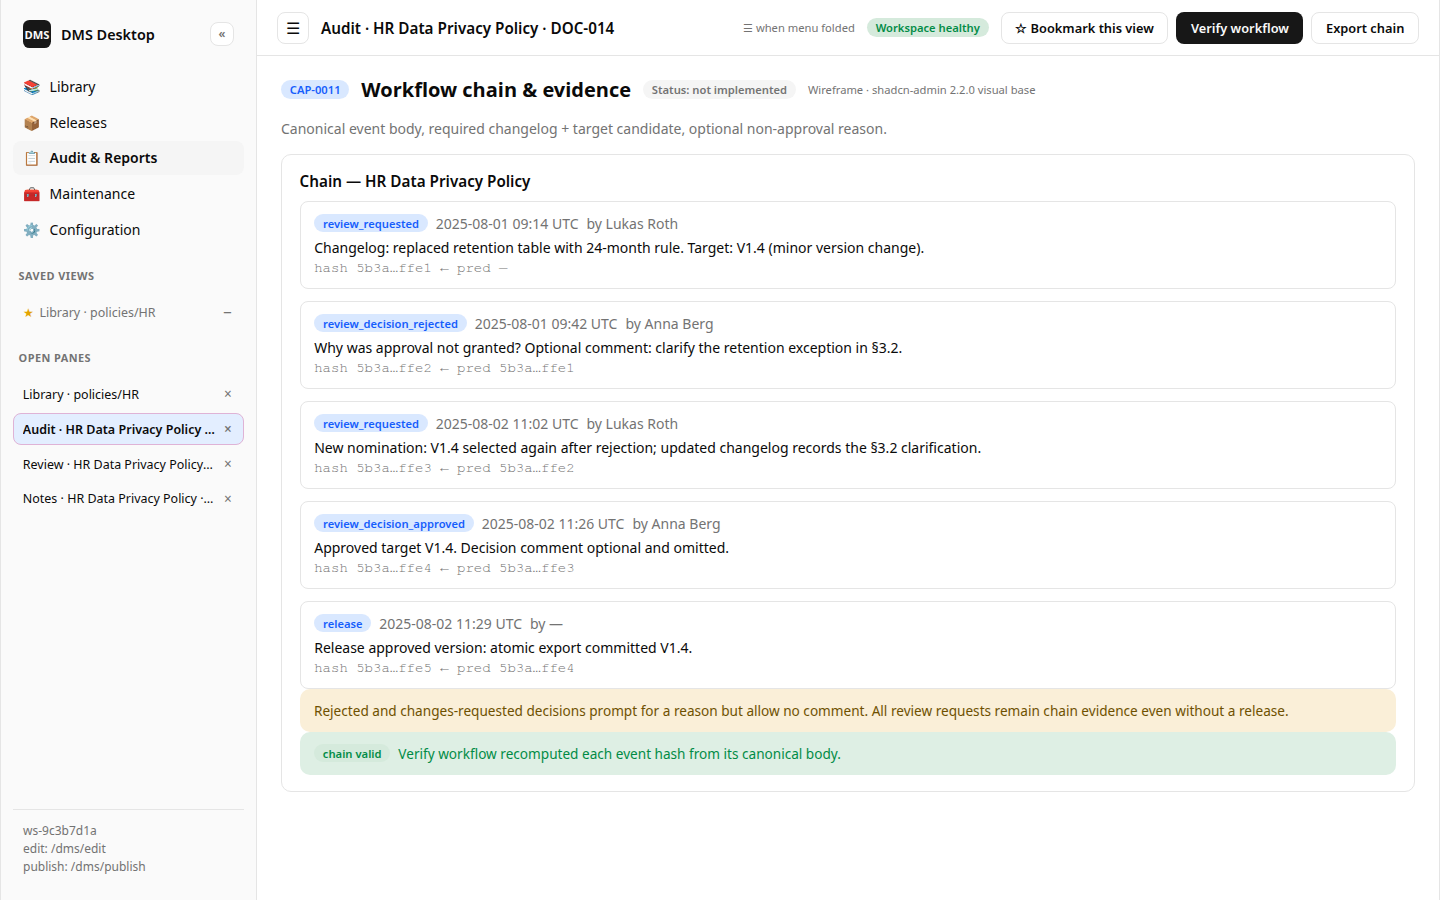
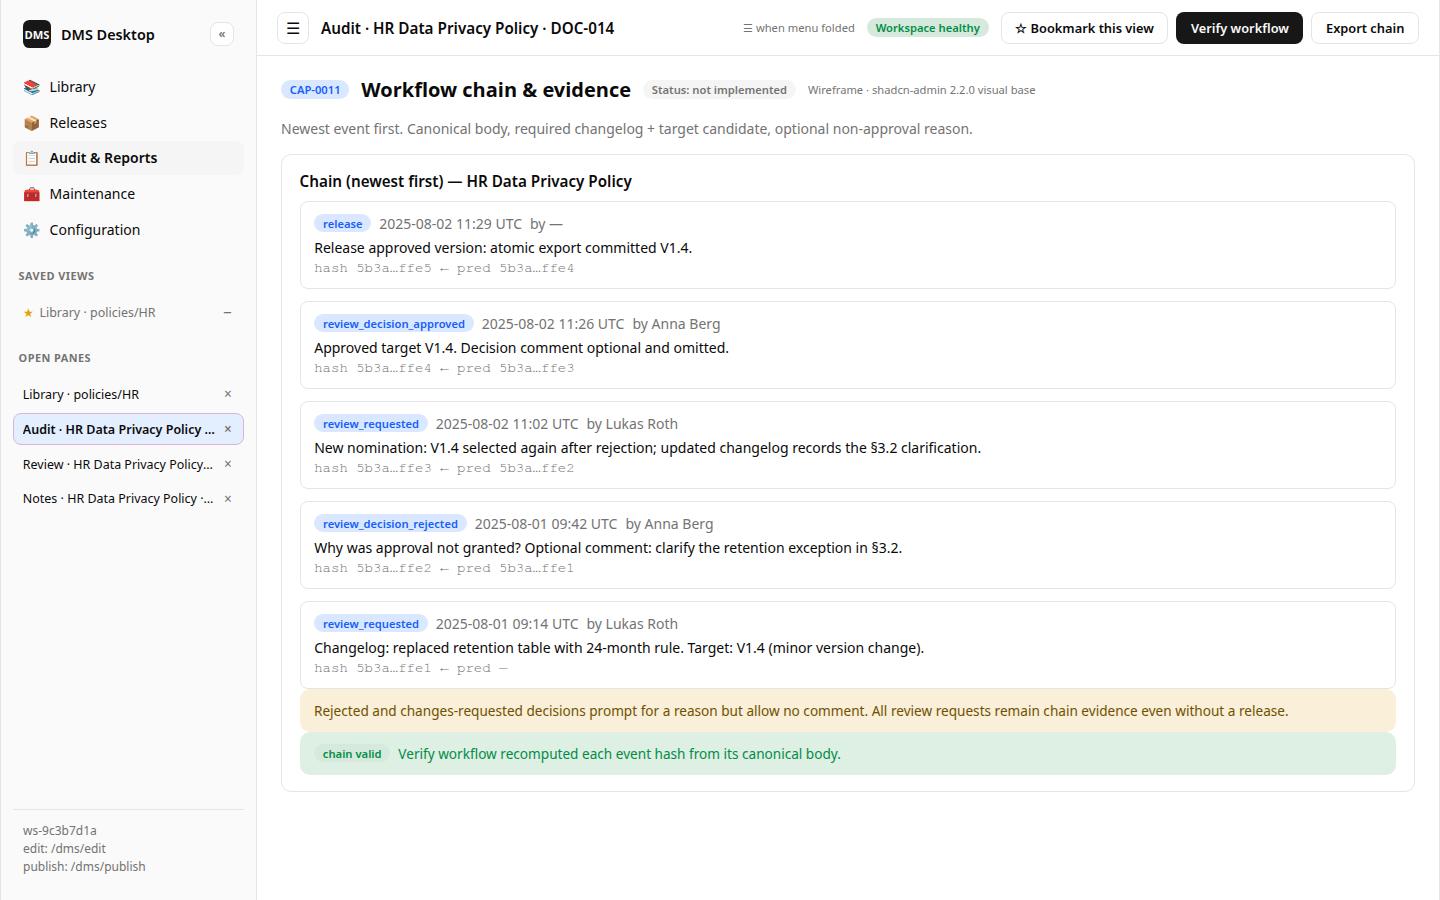
docs(approval): show workflow history newest first

diff --git a/docs/product/wireframes/html/CAP-0011-approval-evidence.html b/docs/product/wireframes/html/CAP-0011-approval-evidence.html
@@ -226,25 +226,15 @@ tr:last-child td { border-bottom: 0; }
         <span class="badge muted">Status: not implemented</span>
         <span class="wire-meta">Wireframe · shadcn-admin 2.2.0 visual base</span>
       </div>
-      <p class="subtitle">Canonical event body, required changelog + target candidate, optional non-approval reason.</p>
+      <p class="subtitle">Newest event first. Canonical body, required changelog + target candidate, optional non-approval reason.</p>
       
       <section class="card">
-        <h3 class="card-title">Chain — HR Data Privacy Policy</h3>
+        <h3 class="card-title">Chain (newest first) — HR Data Privacy Policy</h3>
         <div class="stack">
           <article class="event">
-    <div class="row gap-2"><span class="badge info">review_requested</span><span class="muted">2025-08-01 09:14 UTC</span><span class="muted">by Lukas Roth</span></div>
-    <p>Changelog: replaced retention table with 24-month rule. Target: V1.4 (minor version change).</p>
-    <p class="hint mono">hash 5b3a…ffe1 ← pred —</p>
-  </article>
-          <article class="event">
-    <div class="row gap-2"><span class="badge info">review_decision_rejected</span><span class="muted">2025-08-01 09:42 UTC</span><span class="muted">by Anna Berg</span></div>
-    <p>Why was approval not granted? Optional comment: clarify the retention exception in §3.2.</p>
-    <p class="hint mono">hash 5b3a…ffe2 ← pred 5b3a…ffe1</p>
-  </article>
-          <article class="event">
-    <div class="row gap-2"><span class="badge info">review_requested</span><span class="muted">2025-08-02 11:02 UTC</span><span class="muted">by Lukas Roth</span></div>
-    <p>New nomination: V1.4 selected again after rejection; updated changelog records the §3.2 clarification.</p>
-    <p class="hint mono">hash 5b3a…ffe3 ← pred 5b3a…ffe2</p>
+    <div class="row gap-2"><span class="badge info">release</span><span class="muted">2025-08-02 11:29 UTC</span><span class="muted">by —</span></div>
+    <p>Release approved version: atomic export committed V1.4.</p>
+    <p class="hint mono">hash 5b3a…ffe5 ← pred 5b3a…ffe4</p>
   </article>
           <article class="event">
     <div class="row gap-2"><span class="badge info">review_decision_approved</span><span class="muted">2025-08-02 11:26 UTC</span><span class="muted">by Anna Berg</span></div>
@@ -252,9 +242,19 @@ tr:last-child td { border-bottom: 0; }
     <p class="hint mono">hash 5b3a…ffe4 ← pred 5b3a…ffe3</p>
   </article>
           <article class="event">
-    <div class="row gap-2"><span class="badge info">release</span><span class="muted">2025-08-02 11:29 UTC</span><span class="muted">by —</span></div>
-    <p>Release approved version: atomic export committed V1.4.</p>
-    <p class="hint mono">hash 5b3a…ffe5 ← pred 5b3a…ffe4</p>
+    <div class="row gap-2"><span class="badge info">review_requested</span><span class="muted">2025-08-02 11:02 UTC</span><span class="muted">by Lukas Roth</span></div>
+    <p>New nomination: V1.4 selected again after rejection; updated changelog records the §3.2 clarification.</p>
+    <p class="hint mono">hash 5b3a…ffe3 ← pred 5b3a…ffe2</p>
+  </article>
+          <article class="event">
+    <div class="row gap-2"><span class="badge info">review_decision_rejected</span><span class="muted">2025-08-01 09:42 UTC</span><span class="muted">by Anna Berg</span></div>
+    <p>Why was approval not granted? Optional comment: clarify the retention exception in §3.2.</p>
+    <p class="hint mono">hash 5b3a…ffe2 ← pred 5b3a…ffe1</p>
+  </article>
+          <article class="event">
+    <div class="row gap-2"><span class="badge info">review_requested</span><span class="muted">2025-08-01 09:14 UTC</span><span class="muted">by Lukas Roth</span></div>
+    <p>Changelog: replaced retention table with 24-month rule. Target: V1.4 (minor version change).</p>
+    <p class="hint mono">hash 5b3a…ffe1 ← pred —</p>
   </article>
         </div>
         <div class="callout warn">Rejected and changes-requested decisions prompt for a reason but allow no comment. All review requests remain chain evidence even without a release.</div>

diff --git a/docs/changes/active/CHG-0001-tauri-local-dms-bootstrap.md b/docs/changes/active/CHG-0001-tauri-local-dms-bootstrap.md
@@ -10,6 +10,7 @@
 | Follow-up request | Direct operator request: For the CAP-0005 hamburger/collapsed view add also the "Saved views" and "Open Panes" as icons but then with a folding context menu so the user do not have to expand the whole left pane |
 | Follow-up request | Direct operator request: the "Effective approver" and "Effective editor" users are defined how this users are managed; the capability to maintain these users is missing; a synchronisation with Entra ID and/or SharePoint/OneDrive members; make a suggestion how to manage the users without creating a new user management in a Microsoft 365 setup. Proceed as recommended. |
 | Follow-up request | Direct operator request: before every later approval nomination, the editor records a changelog and selects a minor, major, or manual target version; only an approved and successfully released target is occupied, while failed review evidence remains auditable; approvers are prompted for an optional non-approval comment. |
+| Follow-up request | Direct operator request: show CAP-0011 workflow-chain entries newest first. |
 | Affected CAPs | CAP-0001 … CAP-0021 |
 | Decision records | ADR-0001 … ADR-0021 in `docs/design-decisions.md` |
 
@@ -37,6 +38,8 @@ macOS** that:
   validated manual target version before every later review nomination; retains
   every unapproved review attempt without occupying its candidate version; asks
   approvers for an optional reason when approval is not granted
+- Shows CAP-0011 workflow-chain entries newest first while retaining each event's
+  predecessor hash
 - Sends approver review-request email and requester decision-outcome email
   (SMTP or host mail handler), and records revision-bound approval comments,
   notification delivery attempts, and event-chain hashes in `.dms`; each
@@ -99,11 +102,11 @@ macOS** that:
 | --- | --- | --- | --- |
 | 0 | Product records and architecture bootstrap | done (docs tree; Markdown source draft plus format-specific local PDF export; release version policy, approval, notification, confidentiality, workflow-role routing, maintenance, periodic review, optional Claude handoff, foldable shell chrome, task-and-target session activity panes with duplicate reuse, saved views, folder-dominant Explorer-like Library navigation with foldable single-document sections and a same-pane batch state, stable document permalinks, Win+macOS recorded) | CAP/CHG/ADR files exist; indexes list CAP-0001…0020; no CAP claims implemented runtime |
 | 0a | Microsoft Entra workflow identity records and wireframes | done (CAP-0021, CAP-0019, ADR-0019, ADR-0021, architecture, privacy, and static screens updated) | CAP-0021 + ADR-0021 replace the application roster with a group binding; CAP-0019 selects only eligible Entra users; static screens show a read-only source, folder-role selection, and no user CRUD; all CAP/CHG/ADR indexes and links validate; no CAP claims implemented runtime |
-| 0b | Target-version review and failure-evidence records + wireframes | done (CAP-0002/0011/0012, ADR-0007/0013, architecture, and affected static screens updated) | CAP-0002/0011/0012 define the required changelog, minor/major/manual candidate selection, no-reservation rule, explicit release action, and optional non-approval comment; CHG/ADR/architecture align; affected static screens show review target selection and retained unsuccessful evidence; generated exports, links, and Markdown checks pass; no CAP claims implemented runtime |
+| 0b | Target-version review and failure-evidence records + wireframes | done (CAP-0002/0011/0012, ADR-0007/0013, architecture, and affected static screens updated) | CAP-0002/0011/0012 define the required changelog, minor/major/manual candidate selection, no-reservation rule, explicit release action, optional non-approval comment, and newest-first workflow history; CHG/ADR/architecture align; affected static screens show review target selection and retained unsuccessful evidence; generated exports, links, and Markdown checks pass; no CAP claims implemented runtime |
 | 1 | Tauri 2 app skeleton (Windows + macOS) + DOX for source tree | pending | Dev app launches on Windows and macOS; README run steps for both; foldable left menu + hamburger + session-only open-activity tabs show task-and-target labels and focus an existing matching task+document pane; collapsed rail icons open saved-view and open-pane flyouts without expanding the whole menu, with open/remove and focus/close actions respectively; explicit saved-view bookmark persists in OS user config and restores as a fresh activity |
 | 2 | `.dms` store + dual-root open/configure + confidentiality, Entra identity binding, and workflow-role policies | pending | Tests: persist/reload edit+publish roots, stable workspace ID, schema version, and non-secret Entra tenant/group binding; safe older-schema migration/newer-schema read-only; create/replace a direct folder policy, remove a non-root policy, refuse root-policy removal, and recompute nearest inherited class; inherit each workflow role independently; replacing the identity source marks live role policies unresolved without changing historical evidence; init `.dms` only on confirm |
 | 3 | Folder-first Library explorer + add/unregister/reassociate + selection pane | pending | Tests: folder pane is visible by default and includes empty edit-root folders while hiding `.dms`; Back/Forward/Up, breadcrumb, tree, and immediate-child contents stay synchronized; every file row keeps its exact filesystem name while an in-library row shows DMS-managed document data separately; one or more unregistered supported source files (including `.md`) can be selected and added from the right pane, while mixed/unsupported selections expose no incompatible batch action; folder navigation reuses one Library activity and updates its folder label; add under edit root; reject outside path; unregister preserves history; rename/reassociate updates only the source locator and does not change document control data or history; ambiguous move is never auto-linked; current-folder and Entire-library search scopes return matching files with paths and clear back to the complete folder listing; single controlled-document selection shows an always-visible Source file identity plus CAP-0015 Document control data and actions in the right pane; the data is loaded from `.dms`, not Office properties or Markdown front matter; its data, action, revision, and release sections fold independently while retaining document and source-file identity; navigating to an already-open task+document focuses the existing pane, while different tasks for that document may remain open; multi-select of controlled documents shows only multi-applicable actions in the same pane; a saved library view restores folder/sort and a single-document stable ID but never batch selection; copy permalink uses workspace+document IDs only and never changes saved views |
-| 4 | Lifecycle + Entra-verified approval + notification + target-version review + tree mirror | pending | Tests with a Graph client fake: request requires non-empty changelog, requester, one target mode (next minor, next major, or validated manual greater-than-current unused target), current eligible effective approver, and transport success; a failed group refresh or unresolved identity blocks request; decision requires the snapshotted Entra tenant/object ID and current eligibility; rejected/changes-requested decisions prompt for an optional reason; the review event retains changelog, candidate, mode, and any decision comment for every outcome; a rejected, changes-requested, cancelled, invalidated, or failed-export candidate remains available; CAP-0020 deep link resolves only an accessible registered workspace to the intended review request and still resolves after rename/version bump; each decision notifies the snapshotted requester, with failure retryable and non-reverting; approver-policy change invalidates an open review; DOCX body/header/footer and Markdown rendered-body version and confidentiality markers must equal the candidate release and effective type before review and again before release; missing, mismatched, and conflicting markers block by default; an explicit, reasoned false-positive override is revision-bound, visible to the approver, and recorded in the event chain; approval preserves its accepted target but only the explicit release action commits it; metadata change invalidates approval; first version V1.0; refuse overwrite |
+| 4 | Lifecycle + Entra-verified approval + notification + target-version review + tree mirror | pending | Tests with a Graph client fake: request requires non-empty changelog, requester, one target mode (next minor, next major, or validated manual greater-than-current unused target), current eligible effective approver, and transport success; a failed group refresh or unresolved identity blocks request; decision requires the snapshotted Entra tenant/object ID and current eligibility; rejected/changes-requested decisions prompt for an optional reason; the review event retains changelog, candidate, mode, and any decision comment for every outcome; workflow history renders newest first while retaining each predecessor hash; a rejected, changes-requested, cancelled, invalidated, or failed-export candidate remains available; CAP-0020 deep link resolves only an accessible registered workspace to the intended review request and still resolves after rename/version bump; each decision notifies the snapshotted requester, with failure retryable and non-reverting; approver-policy change invalidates an open review; DOCX body/header/footer and Markdown rendered-body version and confidentiality markers must equal the candidate release and effective type before review and again before release; missing, mismatched, and conflicting markers block by default; an explicit, reasoned false-positive override is revision-bound, visible to the approver, and recorded in the event chain; approval preserves its accepted target but only the explicit release action commits it; metadata change invalidates approval; first version V1.0; refuse overwrite |
 | 5 | Format-specific local PDF export on release (Win + macOS adapters) | pending | Tests/integration: export Office drafts through installed Office (or a test double), replacing `{CONFIDENTIALITY}`/`{VERSION}` on a temp copy from the release chrome map; export Markdown through CommonMark + shipped print shell (logo, `Vertraulichkeitsstufe:` / `Version:` footers from the same map, front matter stripped) + native WebView PDF API to the versioned, classified path on each OS; PDF chrome values match the release snapshot; a failed export does not commit or occupy the approved target; WebView2 and WKWebView smoke cover multi-page footer chrome |
 | 6 | Notes on documents | pending | Tests: note CRUD persistence across restart; list is newest-first; New note compose field is above the latest note and remains there after save |
 | 7 | Release checksum + periodic review + verify | pending | Tests: exported PDF → expected SHA-256; tamper → mismatch; release snapshots draft digest, target-version mode/label, changelog, and chain; a case-insensitive Title filter scopes publish-tree releases; selected rows-per-page controls pagination of the filtered result; each non-missing release opens only its recorded PDF while missing files have no open action; periodic confirm keeps version; changes-required begins revision; full backup manifest covers both roots |

diff --git a/docs/product/capabilities/CAP-0011-approval-evidence.md b/docs/product/capabilities/CAP-0011-approval-evidence.md
@@ -31,9 +31,9 @@ When implemented, the following must hold:
    additionally records the interactive Microsoft Entra tenant/object ID and is
    rejected unless it matches the snapshotted effective approver (CAP-0019 /
    CAP-0021). Other workflow events do not claim Entra actor verification.
-4. The history of a document lists every event in chain order with its event
-   hash, predecessor hash, type, timestamp, changelog, requested target version
-   and mode, decision comment, requester, effective editor and approver,
+4. The history of a document lists every event **newest first**. Each row retains
+   its event hash, predecessor hash, type, timestamp, changelog, requested target
+   version and mode, decision comment, requester, effective editor and approver,
    revision digest, and confidentiality snapshot. Failed, rejected, cancelled,
    and changes-requested reviews remain in that history. The list is readable
    without leaving the desktop app.
